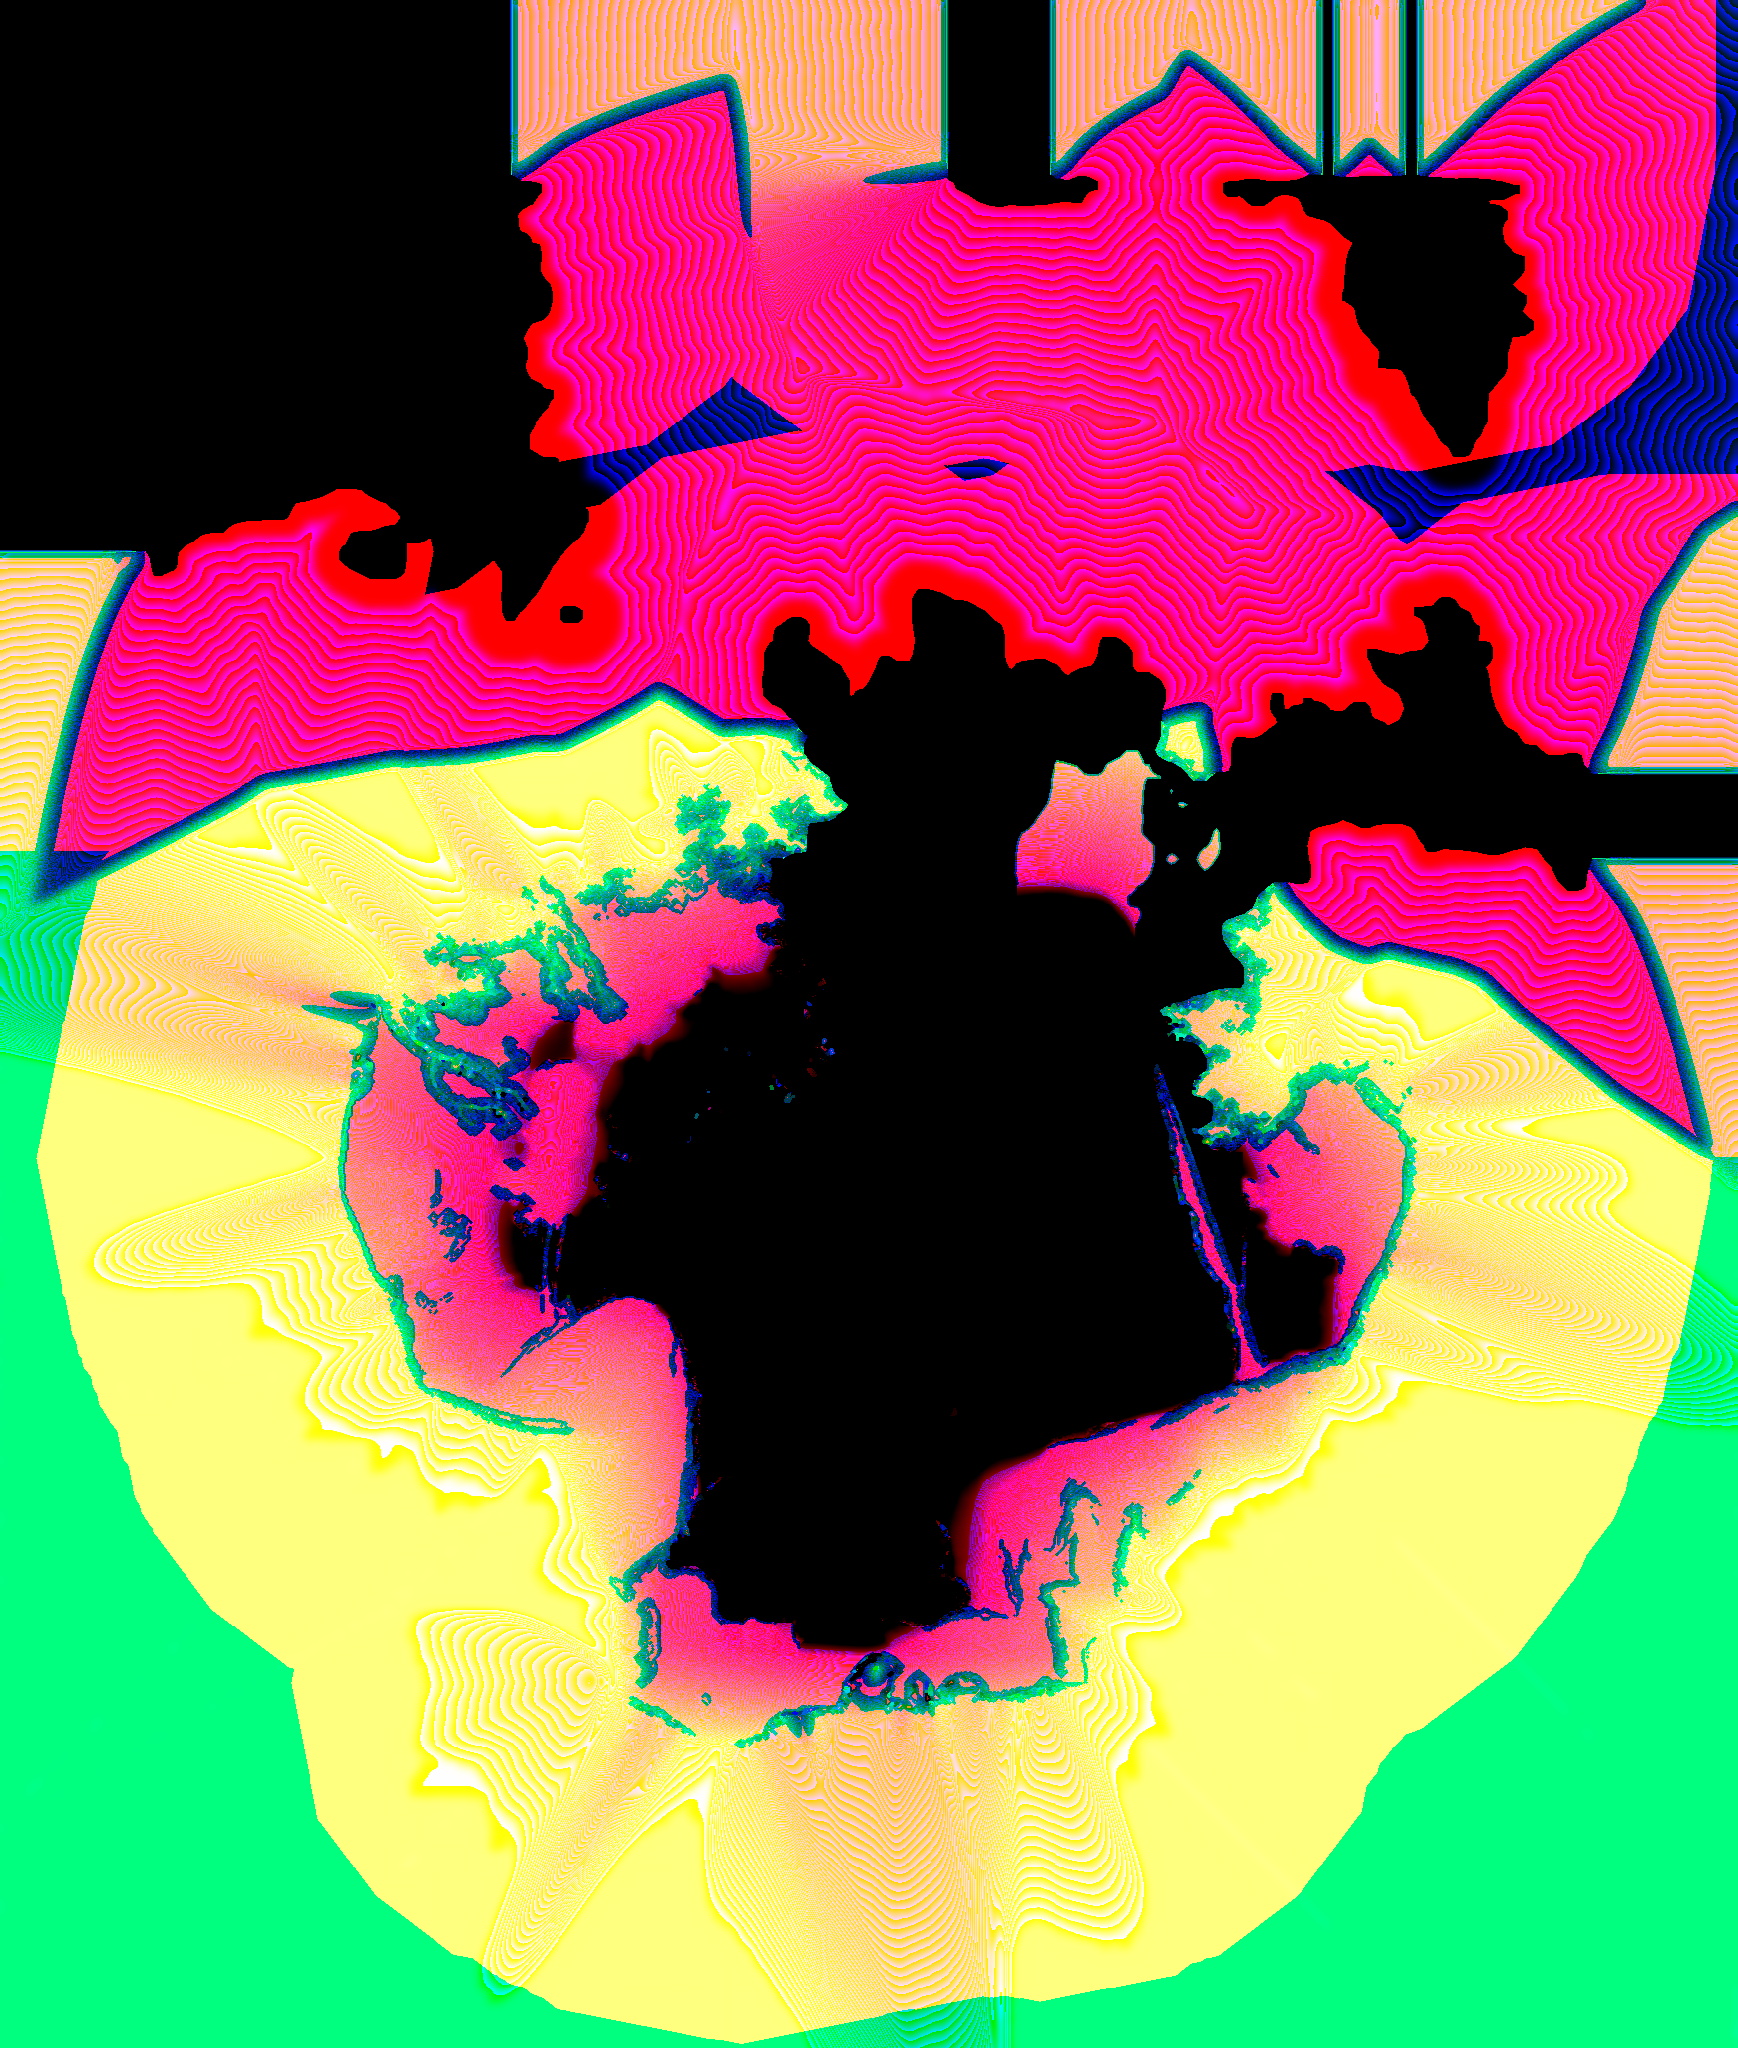
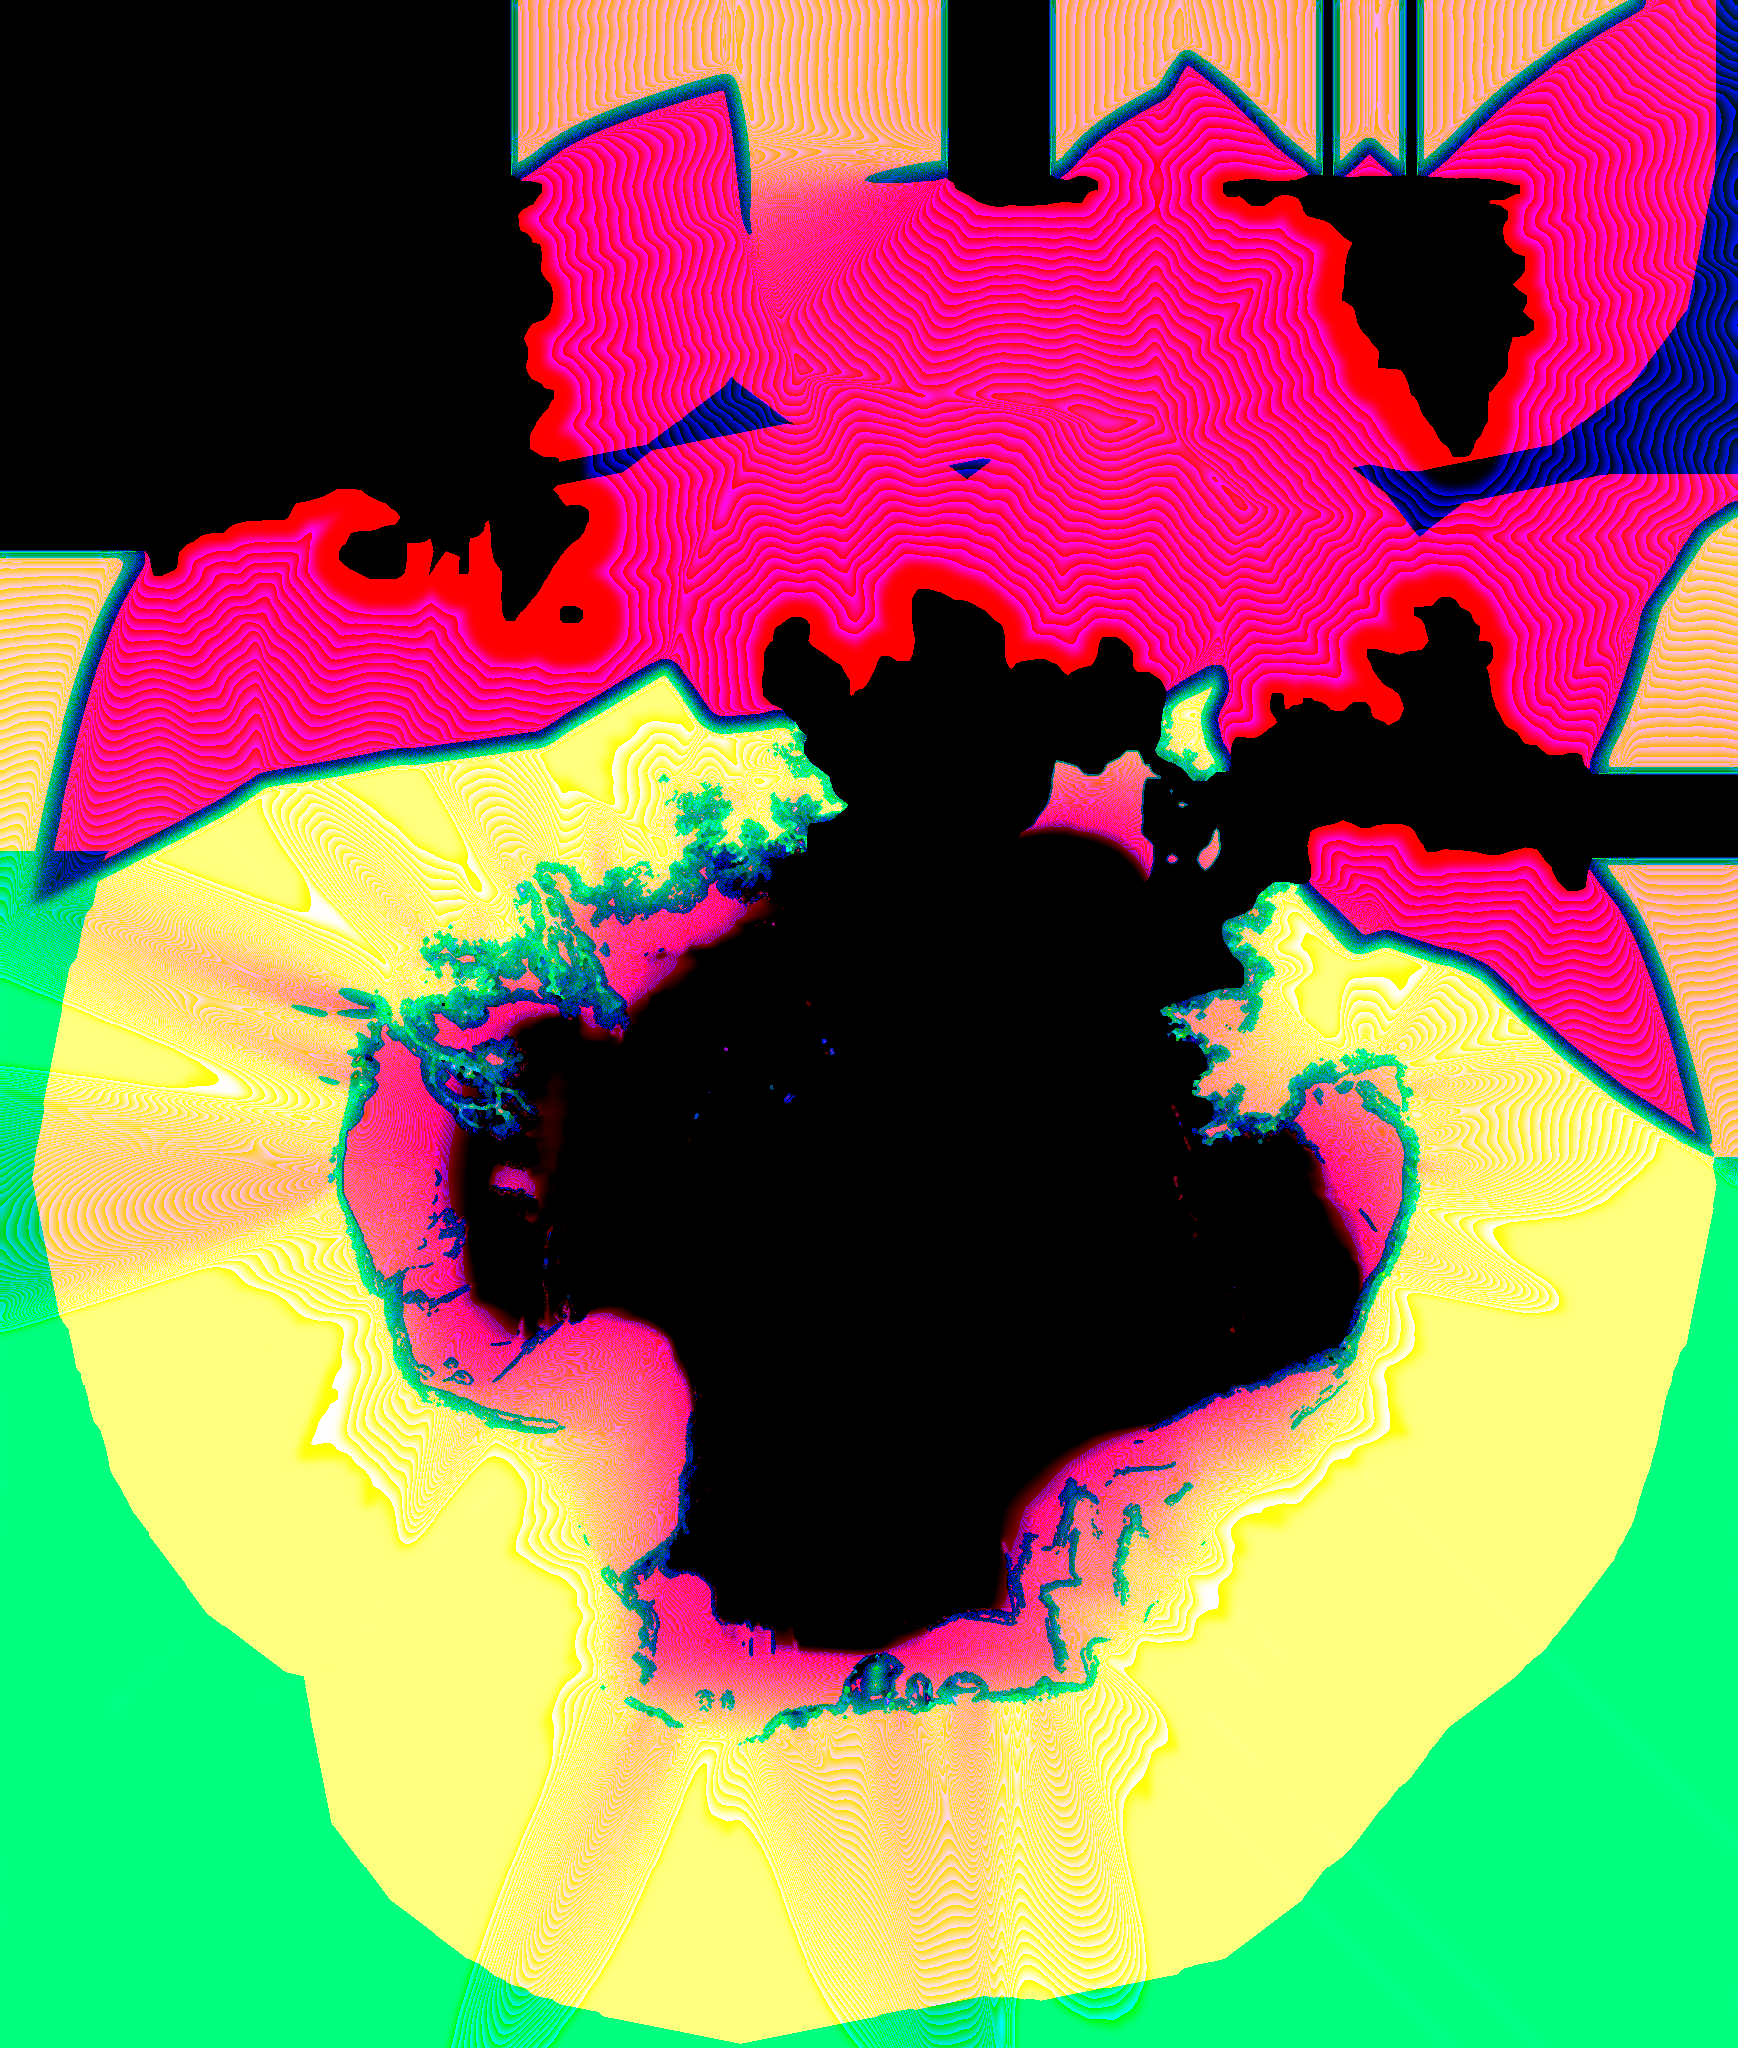
v2: higher-res depth with flip averaging, gentler camera probe, tighter flight volume
Depth Anything now runs at 518 and 770 px with horizontal flips and the
results are averaged. The sky layer uses a smooth fill instead of mirrored
clouds. The view-cone probe eases the camera back at a time-based rate
instead of several percent per frame. Flight depth capped near the boats,
glide stops moved to where the layers hold up, lighter mesh on touch devices.

Claude-Session: https://claude.ai/code/session_01RS6niYbHcns3hcprT2rvUk

diff --git a/index.html b/index.html
@@ -86,7 +86,7 @@ const ASPECT = scene.plate[0]/scene.plate[1];
 const TY = 0.42, TX = TY*ASPECT;                          // tan(half fov) of the painter's eye
 const ZP = 1.2;                                           // picture plane / frame distance
 const ZNEAR = 4.0, ZFAR = 400;                            // inverse-depth → metres (must match tools/04_layers.py)
-const ZFLYMAX = 40;
+const ZFLYMAX = 11;                                       // about where the near boats are
 const isTouch = matchMedia('(pointer:coarse)').matches;
 const Q = new URLSearchParams(location.search); const onlyLayer = Q.has('layer') ? +Q.get('layer') : -1;
 const zOf = d => 1/((1/ZFAR)*(1-d) + (1/ZNEAR)*d);
@@ -181,7 +181,7 @@ const swayU = scene.sway.map(s => new THREE.Vector4(s.c[0], s.c[1], s.amp, 0));
 const swayR = scene.sway.map(s => new THREE.Vector2(s.r[0], s.r[1]));
 const waterTex = tex('assets/water.png').then(t => { t.minFilter = THREE.LinearFilter; t.generateMipmaps = false; return t; });
 const commonU = { tWater:{value:null}, uTime:{value:0}, uSun:{value:new THREE.Vector2(scene.sun[0], scene.sun[1])}, uCamPos:{value:new THREE.Vector3()} };
-const segScale = 1.0;
+const segScale = isTouch ? 0.8 : 1.0;
 const layerPromises = scene.layers.map(async (L, k) => {
   const [tc, tm, tw] = await Promise.all([tex(`assets/L${k}.jpg`), tex(`assets/L${k}.png`), waterTex]); commonU.tWater.value = tw;
   tm.minFilter = THREE.NearestFilter; tm.magFilter = THREE.NearestFilter; tm.generateMipmaps = false;
@@ -319,7 +319,7 @@ addEventListener('keyup', e => input.keys.delete(e.code));
 function noteInput() { lastInput = clock.elapsedTime; if (glide) glide = null; }
 
 // where may the camera be?
-function constrain(p) {
+function constrain(p, dt = 1/60) {
   if (p.z > -ZP + 0.05) {                               // in the gallery
     p.x = THREE.MathUtils.clamp(p.x, -0.7, 0.7); p.y = THREE.MathUtils.clamp(p.y, -0.5, 0.55); p.z = Math.min(p.z, 2.7);
     if (p.z < -ZP + 0.45) { p.x = THREE.MathUtils.clamp(p.x, -TX*ZP*0.7, TX*ZP*0.7); p.y = THREE.MathUtils.clamp(p.y, -TY*ZP*0.7, TY*ZP*0.7); }
@@ -341,7 +341,7 @@ function constrain(p) {
   const fwd = new THREE.Vector3(-Math.sin(pose.yaw)*Math.cos(pose.pitch), Math.sin(pose.pitch), -Math.cos(pose.yaw)*Math.cos(pose.pitch));
   const right = new THREE.Vector3(Math.cos(pose.yaw), 0, -Math.sin(pose.yaw)), upv = new THREE.Vector3().crossVectors(right, fwd).negate();
   const tanV = Math.tan(THREE.MathUtils.degToRad(camera.fov/2)), tanH = tanV*camera.aspect;
-  for (let iter = 0; iter < 4; iter++) {
+  {
     let blocked = false;
     for (const [sx, sy] of [[0,0],[1,0],[-1,0],[0,1],[0,-1],[1,1],[-1,1],[1,-1],[-1,-1]]) {
       const dir = fwd.clone().addScaledVector(right, sx*tanH*0.9).addScaledVector(upv, sy*tanV*0.9).normalize();
@@ -353,8 +353,7 @@ function constrain(p) {
       }
       if (blocked) break;
     }
-    if (!blocked) break;
-    p.multiplyScalar(0.97); if (-p.z < ZP + 0.06) { p.multiplyScalar((ZP+0.06)/-p.z); break; }
+    if (blocked) { p.multiplyScalar(Math.max(0.9, 1 - 0.8*dt)); if (-p.z < ZP + 0.06) p.multiplyScalar((ZP+0.06)/-p.z); }
   }
   return p;
 }
@@ -362,10 +361,10 @@ function constrain(p) {
 // points of interest for the idle glide (ndc of the painter's view, fraction of surface distance, look-at ndc)
 const POIS = [
   { at:[0,0,0.04], look:[0.02,-0.2], hold:4 },
-  { at:[0.05,-0.42,0.55], look:[0.0,-0.32], hold:4 },
-  { at:[0.28,-0.25,0.42], look:[0.42,-0.55], hold:4 },
-  { at:[-0.32,0.25,0.35], look:[0.4,-0.15], hold:3 },
-  { at:[-0.08,-0.55,0.62], look:[-0.05,-0.42], hold:5 },
+  { at:[0.05,-0.42,0.42], look:[0.0,-0.32], hold:4 },
+  { at:[0.28,-0.25,0.33], look:[0.42,-0.55], hold:4 },
+  { at:[-0.32,0.25,0.28], look:[0.4,-0.15], hold:3 },
+  { at:[-0.08,-0.55,0.5], look:[-0.05,-0.42], hold:5 },
   { at:[0,0.05,0.05], look:[0,-0.05], hold:4 },
 ];
 function poiPos(nx, ny, frac) {
@@ -410,7 +409,7 @@ function tick() {
       pose.yaw += (a.yaw - pose.yaw)*s; pose.pitch += (a.pitch - pose.pitch)*s;
       if (dist < 0.25) { glide.hold += dt; if (glide.hold > P.hold) { glide.i++; glide.hold = 0; } }
     }
-    constrain(pose.pos);
+    constrain(pose.pos, dt);
   }
   camera.position.copy(pose.pos);
   camera.rotation.set(0,0,0); camera.rotateY(pose.yaw); camera.rotateX(pose.pitch);

diff --git a/tools/02_depth.py b/tools/02_depth.py
@@ -1,16 +1,27 @@
-"""Step 2: monocular depth with Depth Anything V2 (Large if it fits, else Small).
-Writes work/depth.npy (float, 0=far .. 1=near, relative) and work/depth_preview.png"""
+"""Step 2: monocular depth with Depth Anything V2 Large, run at two resolutions and with a
+horizontal flip, averaged. Writes work/depth.npy (inverse depth, 0 far .. 1 near) and a preview."""
 import numpy as np, torch, sys
-from PIL import Image
-from transformers import pipeline
-model = sys.argv[1] if len(sys.argv)>1 else 'depth-anything/Depth-Anything-V2-Large-hf'
+from PIL import Image, ImageOps
+from transformers import AutoImageProcessor, AutoModelForDepthEstimation
+name = 'depth-anything/Depth-Anything-V2-Large-hf'
 im = Image.open('work/plate.jpg').convert('RGB')
-pipe = pipeline('depth-estimation', model=model, device=-1)
-out = pipe(im)
-d = np.asarray(out['predicted_depth'], dtype=np.float32)
-if d.ndim==3: d=d[0]
-d = (d-d.min())/(d.max()-d.min())      # DA-V2 outputs inverse depth: 1 = near
-d = np.asarray(Image.fromarray(d).resize(im.size, Image.BILINEAR))
+proc = AutoImageProcessor.from_pretrained(name); model = AutoModelForDepthEstimation.from_pretrained(name).eval()
+torch.set_num_threads(4)
+def run(img, side):
+    inputs = proc(images=img, return_tensors='pt', size={'height': side, 'width': side}, keep_aspect_ratio=True, ensure_multiple_of=14)
+    with torch.no_grad(): out = model(**inputs).predicted_depth
+    d = torch.nn.functional.interpolate(out[None], size=img.size[::-1], mode='bicubic', align_corners=False)[0,0].numpy()
+    return d
+acc = []
+for side in (518, 770):
+    for flip in (False, True):
+        src = ImageOps.mirror(im) if flip else im
+        d = run(src, side)
+        if flip: d = d[:, ::-1]
+        d = (d - d.min())/(d.max()-d.min())
+        acc.append(d); print('done', side, flip, flush=True)
+d = np.mean(acc, 0).astype(np.float32)
+d = (d-d.min())/(d.max()-d.min())
 np.save('work/depth.npy', d)
 Image.fromarray((d*255).astype(np.uint8)).save('work/depth_preview.png')
-print('depth', d.shape, d.min(), d.max(), model)
+print('depth', d.shape)

diff --git a/tools/04_layers.py b/tools/04_layers.py
@@ -102,6 +102,7 @@ for k,(name, dmin, dmax) in enumerate(BANDS):
     mirror_ok = known[my_, mx_] & ~known
     mirrored = plate[my_, mx_]
     wmir = np.clip(1.0 - (dist_k-40)/60.0, 0, 1)[...,None]          # trust the mirror for ~40px, fade to the average by 100px
+    if k == 0: wmir = wmir*0              # sky: smooth average only, mirrored clouds look duplicated
     col = np.where(known[...,None], plate, mirrored*wmir*mirror_ok[...,None] + base*(1-wmir*mirror_ok[...,None]))
     col = np.where(known[...,None], col, gaussian_filter(col, (1.2,1.2,0)))
     col = np.where((inband & ~known)[...,None], col, col)         # edge ring now carries fill colour, not the other side's
